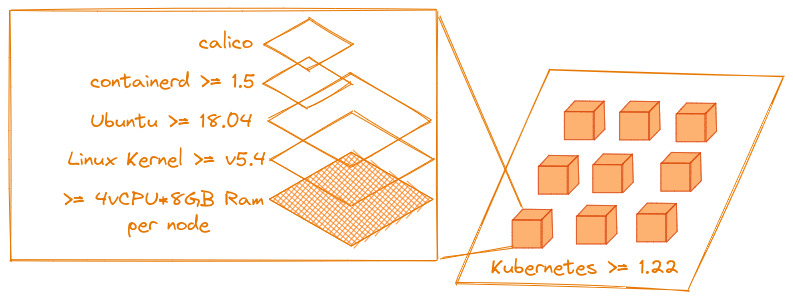
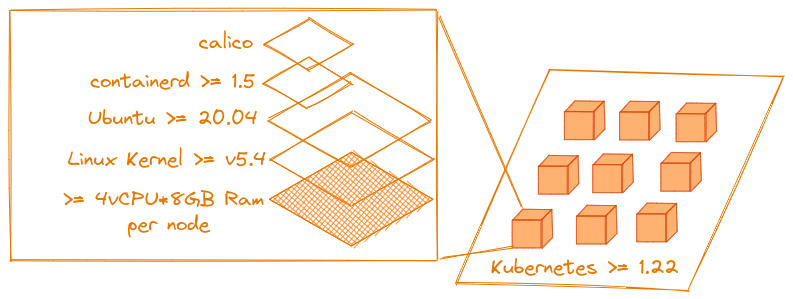
feat[docs] Bump from Ubuntu 18 to Ubuntu 20

Changed region(s): [[0.0908, 0.3612, 0.3329, 0.4214]]

diff --git a/gitpod/docs/self-hosted/latest/cluster-set-up/index.md b/gitpod/docs/self-hosted/latest/cluster-set-up/index.md
@@ -70,7 +70,7 @@ It is recommended to have a minimum of two node pools, grouping the `meta` and `
 
 These are the components expected on each node:
 
-- Either Ubuntu 18.04, 20.04, or 22.04 with kernel ≥ v5.4 and ≤ v5.15
+- Either Ubuntu 20.04, or 22.04 with kernel ≥ v5.4 and ≤ v5.15
 - Calico for the networking overlay and network policy
 - Containerd ≥ 1.5 and ≤ 1.6
 - At least 4 vCPU and 8GB of RAM
